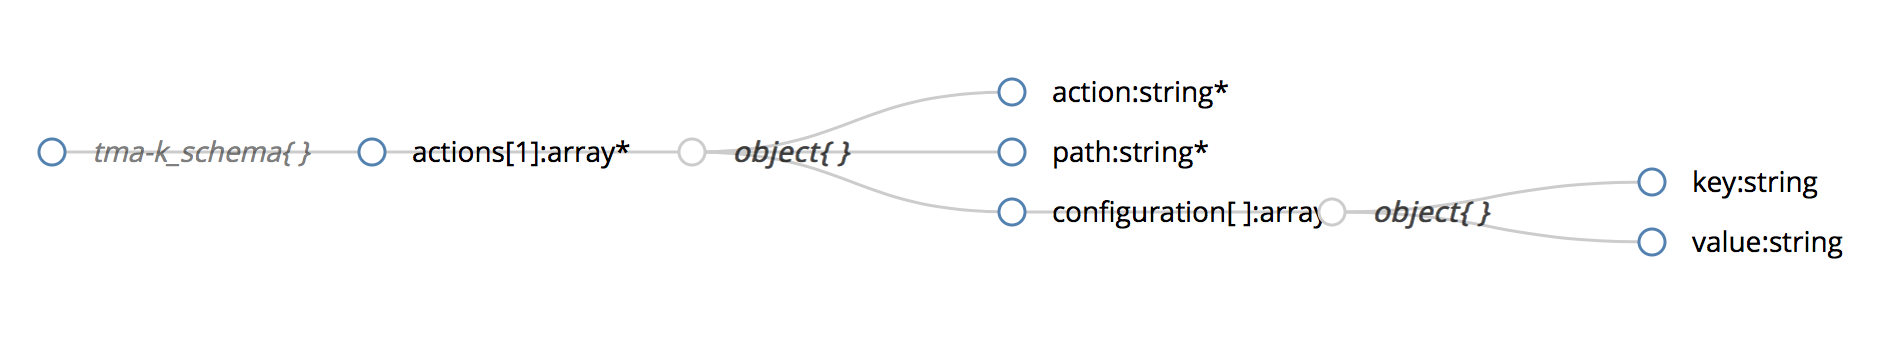
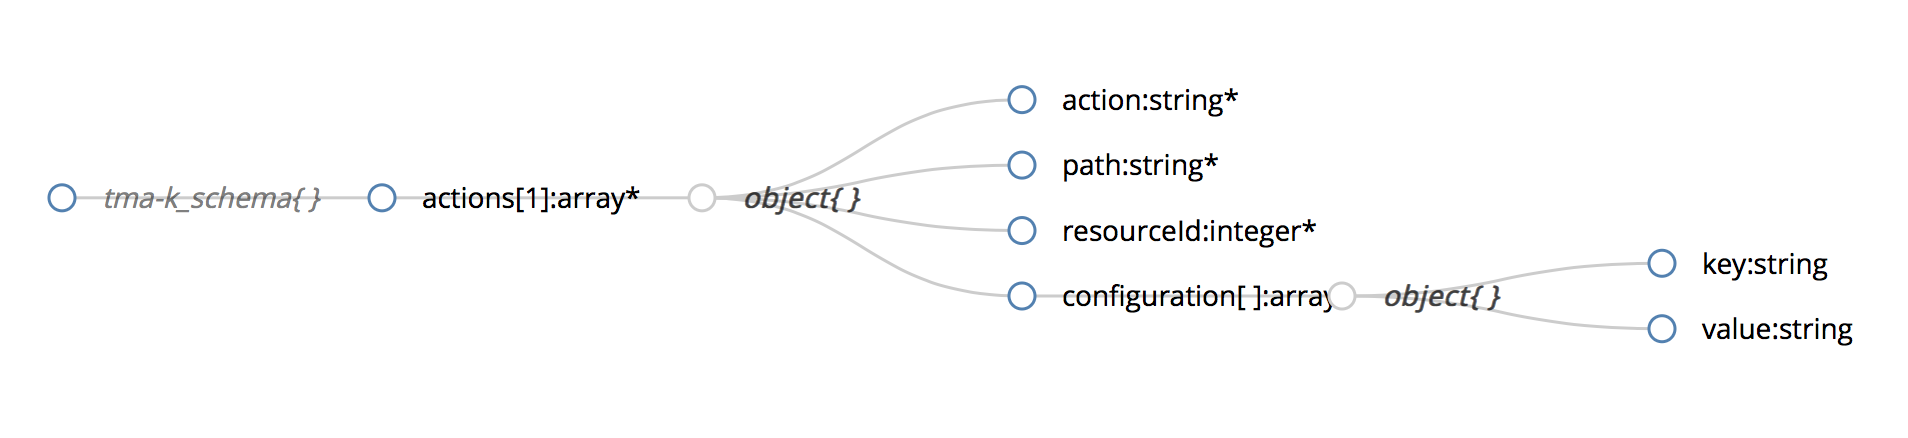
Adding the resourceId to the list of actions.

diff --git a/README.md b/README.md
@@ -26,7 +26,7 @@ Each message includes:
 
 -
 
-Additional, the following message should be sent to `TMA_Knowledge` to store all the possible actions. It follows the `JSON` schema specified in [tma-k_schema-actions](interface/atmosphere_tma-k_schema-actions.json), which is currently in the version `0.1`.
+Additional, the following message should be sent to `TMA_Knowledge` to store all the possible actions. It follows the `JSON` schema specified in [tma-k_schema-actions](interface/atmosphere_tma-k_schema-actions.json), which is currently in the version `0.2`.
 
 The figure below presents a representation of this schema, which is also explained below.
 
@@ -37,6 +37,7 @@ Each message includes:
 * `actions` -- a list of actions provided by the Actuator
 	* `action` -- name of the action to be performed
 	* `path` -- path of the service to execute the operation
+	* `resourceId` -- identifies the resource to which the adaptation is targeted
 	* `configuration` -- list of expected attributes to execute the operation
 		* `key` -- name of the configuration attribute
 		* `value` -- value of the configuration attribute
